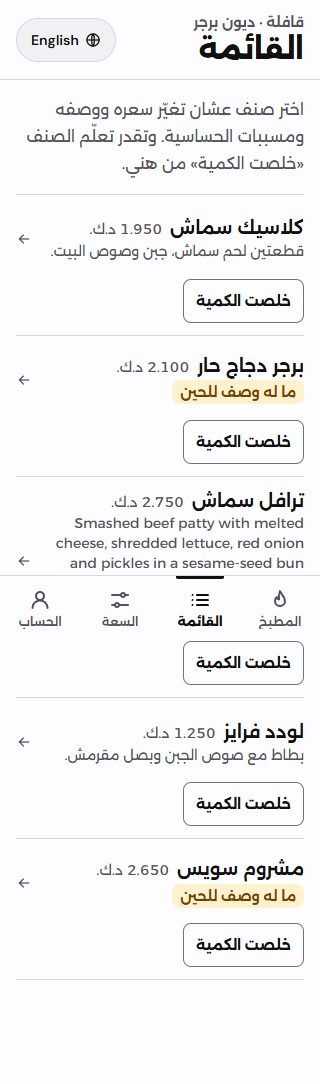
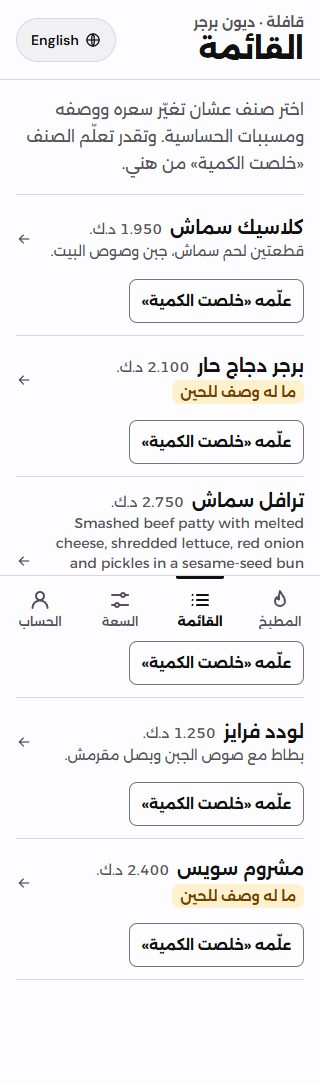
Tell customers a vendor's pause from the park's closure for tonight
Explore, the menu and checkout now say 'Paused · Back soon' when the
vendor switched new orders off, and keep 'Closed for tonight' for the park
manager's closure, which comes first when both are true. Checkout offers
Check again for a pause. Also retakes the Arabic 320 px Menu screenshot.

diff --git a/app/checkout/page.tsx b/app/checkout/page.tsx
@@ -20,7 +20,7 @@ import {
 import { useAccount } from "@/lib/account";
 import { requestIdForCart, storedCart, useCart } from "@/lib/cart";
 import { orderItems } from "@/lib/cart-lines";
-import { fetchClosed, fetchSlots, isFull, nextBookable, upcomingSlots, type Slot } from "@/lib/data";
+import { fetchClosedBy, fetchSlots, isFull, nextBookable, upcomingSlots, type Slot } from "@/lib/data";
 import { itemName, truckName } from "@/lib/i18n";
 import { useLocale } from "@/lib/locale";
 import {
@@ -42,7 +42,7 @@ type Problem = "itemUnavailable" | "notCustomer" | "genericError";
 /** Pickup times as last read from the database, or a failed read. */
 type Availability =
   | { truckId: string; attempt: number; failed: true }
-  | { truckId: string; attempt: number; failed: false; slots: Slot[]; closed: boolean };
+  | { truckId: string; attempt: number; failed: false; slots: Slot[]; closed: boolean; paused: boolean };
 
 /**
  * Where this customer's unconfirmed attempt stands, if they have one.
@@ -254,7 +254,7 @@ export default function CheckoutPage() {
   }
 
   const { lines, total, orderable } = cartLines;
-  const { slots, closed } = current;
+  const { slots, closed, paused } = current;
   const truck = { id: cart.truckId, name: cart.truckName };
   const name = truckName(truck, locale);
   const upcoming = upcomingSlots(slots);
@@ -382,11 +382,17 @@ export default function CheckoutPage() {
           <div className="flex items-start gap-2.5">
             <StoreIcon className="mt-0.5 size-5" />
             <div>
-              <h2 className="text-base leading-snug font-extrabold">{t.truckClosedTitle(name)}</h2>
-              <p className="mt-1 text-sm">{t.truckClosedBody}</p>
+              {/* A vendor's pause may lift in minutes; the park's closure lasts all night. Say which. */}
+              <h2 className="text-base leading-snug font-extrabold">{paused ? t.truckPausedTitle(name) : t.truckClosedTitle(name)}</h2>
+              <p className="mt-1 text-sm">{paused ? t.truckPausedBody : t.truckClosedBody}</p>
             </div>
           </div>
-          <Link href="/explore" className={`${primaryButton} mt-3`}>
+          {paused && (
+            <button type="button" onClick={reload} className={`${primaryButton} mt-3`}>
+              {t.checkAgain}
+            </button>
+          )}
+          <Link href="/explore" className={`${paused ? secondaryButton : primaryButton} mt-3`}>
             {t.browseOpen}
           </Link>
         </section>
@@ -670,10 +676,10 @@ async function lookUpPending(
 }
 
 /** The truck's live slot counts and whether it is closed tonight. */
-async function loadAvailability(truckId: string): Promise<{ slots: Slot[]; closed: boolean }> {
+async function loadAvailability(truckId: string): Promise<{ slots: Slot[]; closed: boolean; paused: boolean }> {
   const db = supabaseBrowser();
-  const [slots, closed] = await Promise.all([fetchSlots(db, truckId), fetchClosed(db, truckId)]);
-  return { slots, closed };
+  const [slots, why] = await Promise.all([fetchSlots(db, truckId), fetchClosedBy(db, truckId)]);
+  return { slots, closed: why !== null, paused: why === "vendor" };
 }
 
 function Shell({ children }: { children: React.ReactNode }) {

diff --git a/lib/data.ts b/lib/data.ts
@@ -1,6 +1,7 @@
 import type { SupabaseClient } from "@supabase/supabase-js";
 import type { KitchenOrder, OrderStatus } from "./kitchen";
 import { kuwaitNow, LEAD_SECONDS, slotSeconds } from "./time";
+import { closedBy, type ClosedBy } from "./vendor-edits";
 
 export type Truck = {
   id: string;
@@ -29,6 +30,8 @@ export type Slot = { slot_start: string; booked: number; capacity: number };
 export type TruckTonight = Truck & {
   /** Closed by the vendor's switch or by the park manager for tonight. */
   closed: boolean;
+  /** Which of the two it is. The park manager's closure comes first. */
+  closedBy: ClosedBy;
   /** Earliest slot that can still be booked, or null when none is left. */
   nextSlot: string | null;
 };
@@ -54,15 +57,14 @@ export async function fetchSlots(db: SupabaseClient, truckId: string): Promise<S
   return data as Slot[];
 }
 
-/** Is this truck closed tonight? Checks the vendor switch and tonight's closure. */
-export async function fetchClosed(db: SupabaseClient, truckId: string): Promise<boolean> {
-  const [truck, closure] = await Promise.all([
-    db.from("trucks").select("is_open").eq("id", truckId).single(),
-    db.from("truck_closures").select("truck_id").eq("truck_id", truckId).eq("service_date", kuwaitNow().date),
-  ]);
-  if (truck.error) throw new Error(truck.error.message);
-  if (closure.error) throw new Error(closure.error.message);
-  return !truck.data.is_open || closure.data.length > 0;
+/**
+ * Why this truck is not taking orders right now: the park manager closed it
+ * for tonight ("park"), its vendor paused it ("vendor"), or null when it is
+ * open. Customers are told which, because one ends tonight and the other
+ * may end in a few minutes.
+ */
+export async function fetchClosedBy(db: SupabaseClient, truckId: string): Promise<ClosedBy> {
+  return closedBy(await fetchTruckState(db, truckId));
 }
 
 export async function fetchTruck(db: SupabaseClient, truckId: string): Promise<Truck | null> {
@@ -98,9 +100,10 @@ export async function fetchTrucksTonight(db: SupabaseClient): Promise<TruckTonig
 
   return Promise.all(
     trucks.data.map(async (truck) => {
-      const closed = !truck.is_open || closedIds.has(truck.id);
+      const why = closedBy({ isOpen: truck.is_open, closedByPark: closedIds.has(truck.id) });
+      const closed = why !== null;
       const slots = closed ? [] : await fetchSlots(db, truck.id);
-      return { ...truck, closed, nextSlot: nextBookable(slots)?.slot_start ?? null };
+      return { ...truck, closed, closedBy: why, nextSlot: nextBookable(slots)?.slot_start ?? null };
     }),
   );
 }

diff --git a/app/trucks/[id]/page.tsx b/app/trucks/[id]/page.tsx
@@ -7,7 +7,7 @@ import { MenuList } from "@/components/menu-list";
 import { SavedCartNotice } from "@/components/saved-cart-notice";
 import { TruckLogo } from "@/components/truck-logo";
 import { ArrowBack, Isolate, PickupSticker, StateLabel } from "@/components/ui";
-import { fetchClosed, fetchMenu, fetchSlots, fetchTruck, nextBookable } from "@/lib/data";
+import { fetchClosedBy, fetchMenu, fetchSlots, fetchTruck, nextBookable } from "@/lib/data";
 import { dictionary, truckBlurb, truckName } from "@/lib/i18n";
 import { truckLogo, truckPhoto } from "@/lib/images";
 import { getLocale } from "@/lib/locale-server";
@@ -28,7 +28,9 @@ export default async function TruckMenu({ params }: { params: Promise<{ id: stri
   const truck = await fetchTruck(db, id);
   if (!truck) notFound();
 
-  const [items, slots, closed] = await Promise.all([fetchMenu(db, id), fetchSlots(db, id), fetchClosed(db, id)]);
+  const [items, slots, why] = await Promise.all([fetchMenu(db, id), fetchSlots(db, id), fetchClosedBy(db, id)]);
+  const closed = why !== null;
+  const paused = why === "vendor"; // the vendor's own pause, not the park's closure for tonight
   const next = closed ? null : nextBookable(slots);
   const photo = truckPhoto(truck.id);
 
@@ -76,7 +78,7 @@ export default async function TruckMenu({ params }: { params: Promise<{ id: stri
               <Isolate>{t.nextPickup(formatSlot(next.slot_start, locale))}</Isolate>
             </PickupSticker>
           ) : (
-            <StateLabel>{closed ? t.closedTonight : t.noSlotsToday}</StateLabel>
+            <StateLabel>{paused ? t.pausedNow : closed ? t.closedTonight : t.noSlotsToday}</StateLabel>
           )}
         </div>
       </header>
@@ -88,7 +90,7 @@ export default async function TruckMenu({ params }: { params: Promise<{ id: stri
 
           {closed && (
             <p className="mb-4 rounded-control bg-warning-surface px-3 py-2 text-sm font-semibold text-warning">
-              {t.closedMenuNote}
+              {paused ? t.pausedMenuNote(truckName(truck, locale)) : t.closedMenuNote}
             </p>
           )}
 

diff --git a/tests/unit/vendor-edits.test.ts b/tests/unit/vendor-edits.test.ts
@@ -5,7 +5,8 @@ import assert from "node:assert/strict";
 import { test } from "node:test";
 import { truckBlurb, truckCuisine, truckName } from "../../lib/i18n.ts";
 import { activeNav } from "../../lib/routes.ts";
-import { BLURB_MAX, canSwitch, checkDetails, CUISINE_MAX, NAME_MAX, operating, parsePrice, priceText } from "../../lib/vendor-edits.ts";
+import { dictionary } from "../../lib/i18n.ts";
+import { BLURB_MAX, canSwitch, checkDetails, closedBy, CUISINE_MAX, NAME_MAX, operating, parsePrice, priceText } from "../../lib/vendor-edits.ts";
 
 test("a typed price becomes text with exactly three decimals", () => {
   for (const [typed, price] of [
@@ -101,4 +102,20 @@ test("Truck details sits under the Kitchen tab", () => {
   assert.equal(activeNav("vendor", "/vendor/truck"), "kitchen");
   assert.equal(activeNav("vendor", "/vendor"), "kitchen");
   assert.equal(activeNav("vendor", "/vendor/menu/M201"), "menu");
+});
+
+test("customers are told which closure it is, and the park's closure comes first", () => {
+  assert.equal(closedBy({ isOpen: true, closedByPark: false }), null);
+  assert.equal(closedBy({ isOpen: false, closedByPark: false }), "vendor");
+  assert.equal(closedBy({ isOpen: true, closedByPark: true }), "park");
+  // Paused by the vendor AND closed by the park: it is closed for tonight.
+  assert.equal(closedBy({ isOpen: false, closedByPark: true }), "park");
+  // The two read differently in both languages, on the label and in the checkout message.
+  for (const locale of ["en", "ar"] as const) {
+    const t = dictionary[locale];
+    assert.notEqual(t.pausedNow, t.closedTonight);
+    assert.notEqual(t.pausedMenuNote("Dune Burgers"), t.closedMenuNote);
+    assert.notEqual(t.truckPausedTitle("Dune Burgers"), t.truckClosedTitle("Dune Burgers"));
+    assert.notEqual(t.truckPausedBody, t.truckClosedBody);
+  }
 });

diff --git a/lib/i18n.ts b/lib/i18n.ts
@@ -23,7 +23,11 @@ const en = {
   nextPickup: (time: string) => `Next pickup · ${time}`,
   noSlotsToday: "No pickup times left today",
   closedTonight: "Closed for tonight",
-  closedGroup: "Closed tonight",
+  closedGroup: "Not taking orders",
+  pausedNow: "Paused · Back soon",
+  pausedMenuNote: (truck: string) => `${truck} has paused new orders for now. You can still read the menu. Check back soon.`,
+  truckPausedTitle: (truck: string) => `${truck} has paused new orders for now. Your order wasn’t placed.`,
+  truckPausedBody: "No order was created. Your cart stays saved, so you can order as soon as the truck is taking orders again.",
   seeMenu: "See menu",
   orderFromLabel: (truck: string, state: string) => `${truck}. ${state}`,
 
@@ -600,7 +604,11 @@ const ar: Dict = {
   nextPickup: (time) => `أقرب استلام · ${time}`,
   noSlotsToday: "ما في أوقات استلام متاحة اليوم",
   closedTonight: "مغلقة الليلة",
-  closedGroup: "مغلقة الليلة",
+  closedGroup: "ما تستقبل طلبات",
+  pausedNow: "متوقفة مؤقتاً · راجعين قريب",
+  pausedMenuNote: (truck) => `${truck} وقّفت الطلبات الجديدة مؤقتاً. تقدر تتصفح القائمة، وارجع بعد شوي.`,
+  truckPausedTitle: (truck) => `${truck} وقّفت الطلبات الجديدة مؤقتاً. طلبك ما تم.`,
+  truckPausedBody: "ما تم إنشاء أي طلب. سلتك محفوظة، وتقدر تطلب أول ما ترجع العربة تستقبل طلبات.",
   seeMenu: "القائمة",
   orderFromLabel: (truck, state) => `${truck}. ${state}`,
 

diff --git a/lib/vendor-edits.ts b/lib/vendor-edits.ts
@@ -96,6 +96,17 @@ export function operating(truck: { isOpen: boolean; closedByPark: boolean }): Op
   return truck.closedByPark ? "park" : truck.isOpen ? "open" : "paused";
 }
 
+/**
+ * Why a customer cannot order from a truck right now, or null when they can.
+ * The park manager's closure for tonight comes first: a truck that is both
+ * paused by its vendor and closed by the park reads as closed for tonight.
+ */
+export type ClosedBy = "park" | "vendor" | null;
+
+export function closedBy(truck: { isOpen: boolean; closedByPark: boolean }): ClosedBy {
+  return truck.closedByPark ? "park" : truck.isOpen ? null : "vendor";
+}
+
 /** The vendor's switch can be used unless the park manager has closed the truck for tonight. */
 export function canSwitch(state: Operating): boolean {
   return state !== "park";

diff --git a/app/explore/page.tsx b/app/explore/page.tsx
@@ -97,7 +97,7 @@ export default async function Explore() {
 /** What a truck can offer right now, as words. */
 function availability(truck: TruckTonight, locale: Locale): string {
   const t = dictionary[locale];
-  if (truck.closed) return t.closedTonight;
+  if (truck.closed) return truck.closedBy === "vendor" ? t.pausedNow : t.closedTonight;
   if (!truck.nextSlot) return t.noSlotsToday;
   return t.nextPickup(formatSlot(truck.nextSlot, locale));
 }

diff --git a/README.md b/README.md
@@ -186,6 +186,9 @@ A vendor with an assigned truck can now run it from the app.
 | Stored in | `trucks.is_open` | a row in `truck_closures` |
 | Lasts | until the vendor changes it | tonight's Kuwait service date |
 | Kitchen shows | "Paused · Not taking orders" | "Closed for tonight by the park", and the switch is locked |
+| Customers read | "Paused · Back soon" | "Closed for tonight" |
+
+Customers are told which it is on Explore, on the menu and at checkout, because a pause may lift in minutes and a closure lasts all night. When both are true the truck reads as closed for tonight (`closedBy` in `lib/vendor-edits.ts`). At checkout a paused truck offers "Check again"; the cart is kept either way.
 
 `place_order` refuses a new order when either says closed, so switching back on cannot undo Dana's closure. Neither touches an order that already exists: the kitchen keeps every ticket and its buttons, and can finish them.
 
